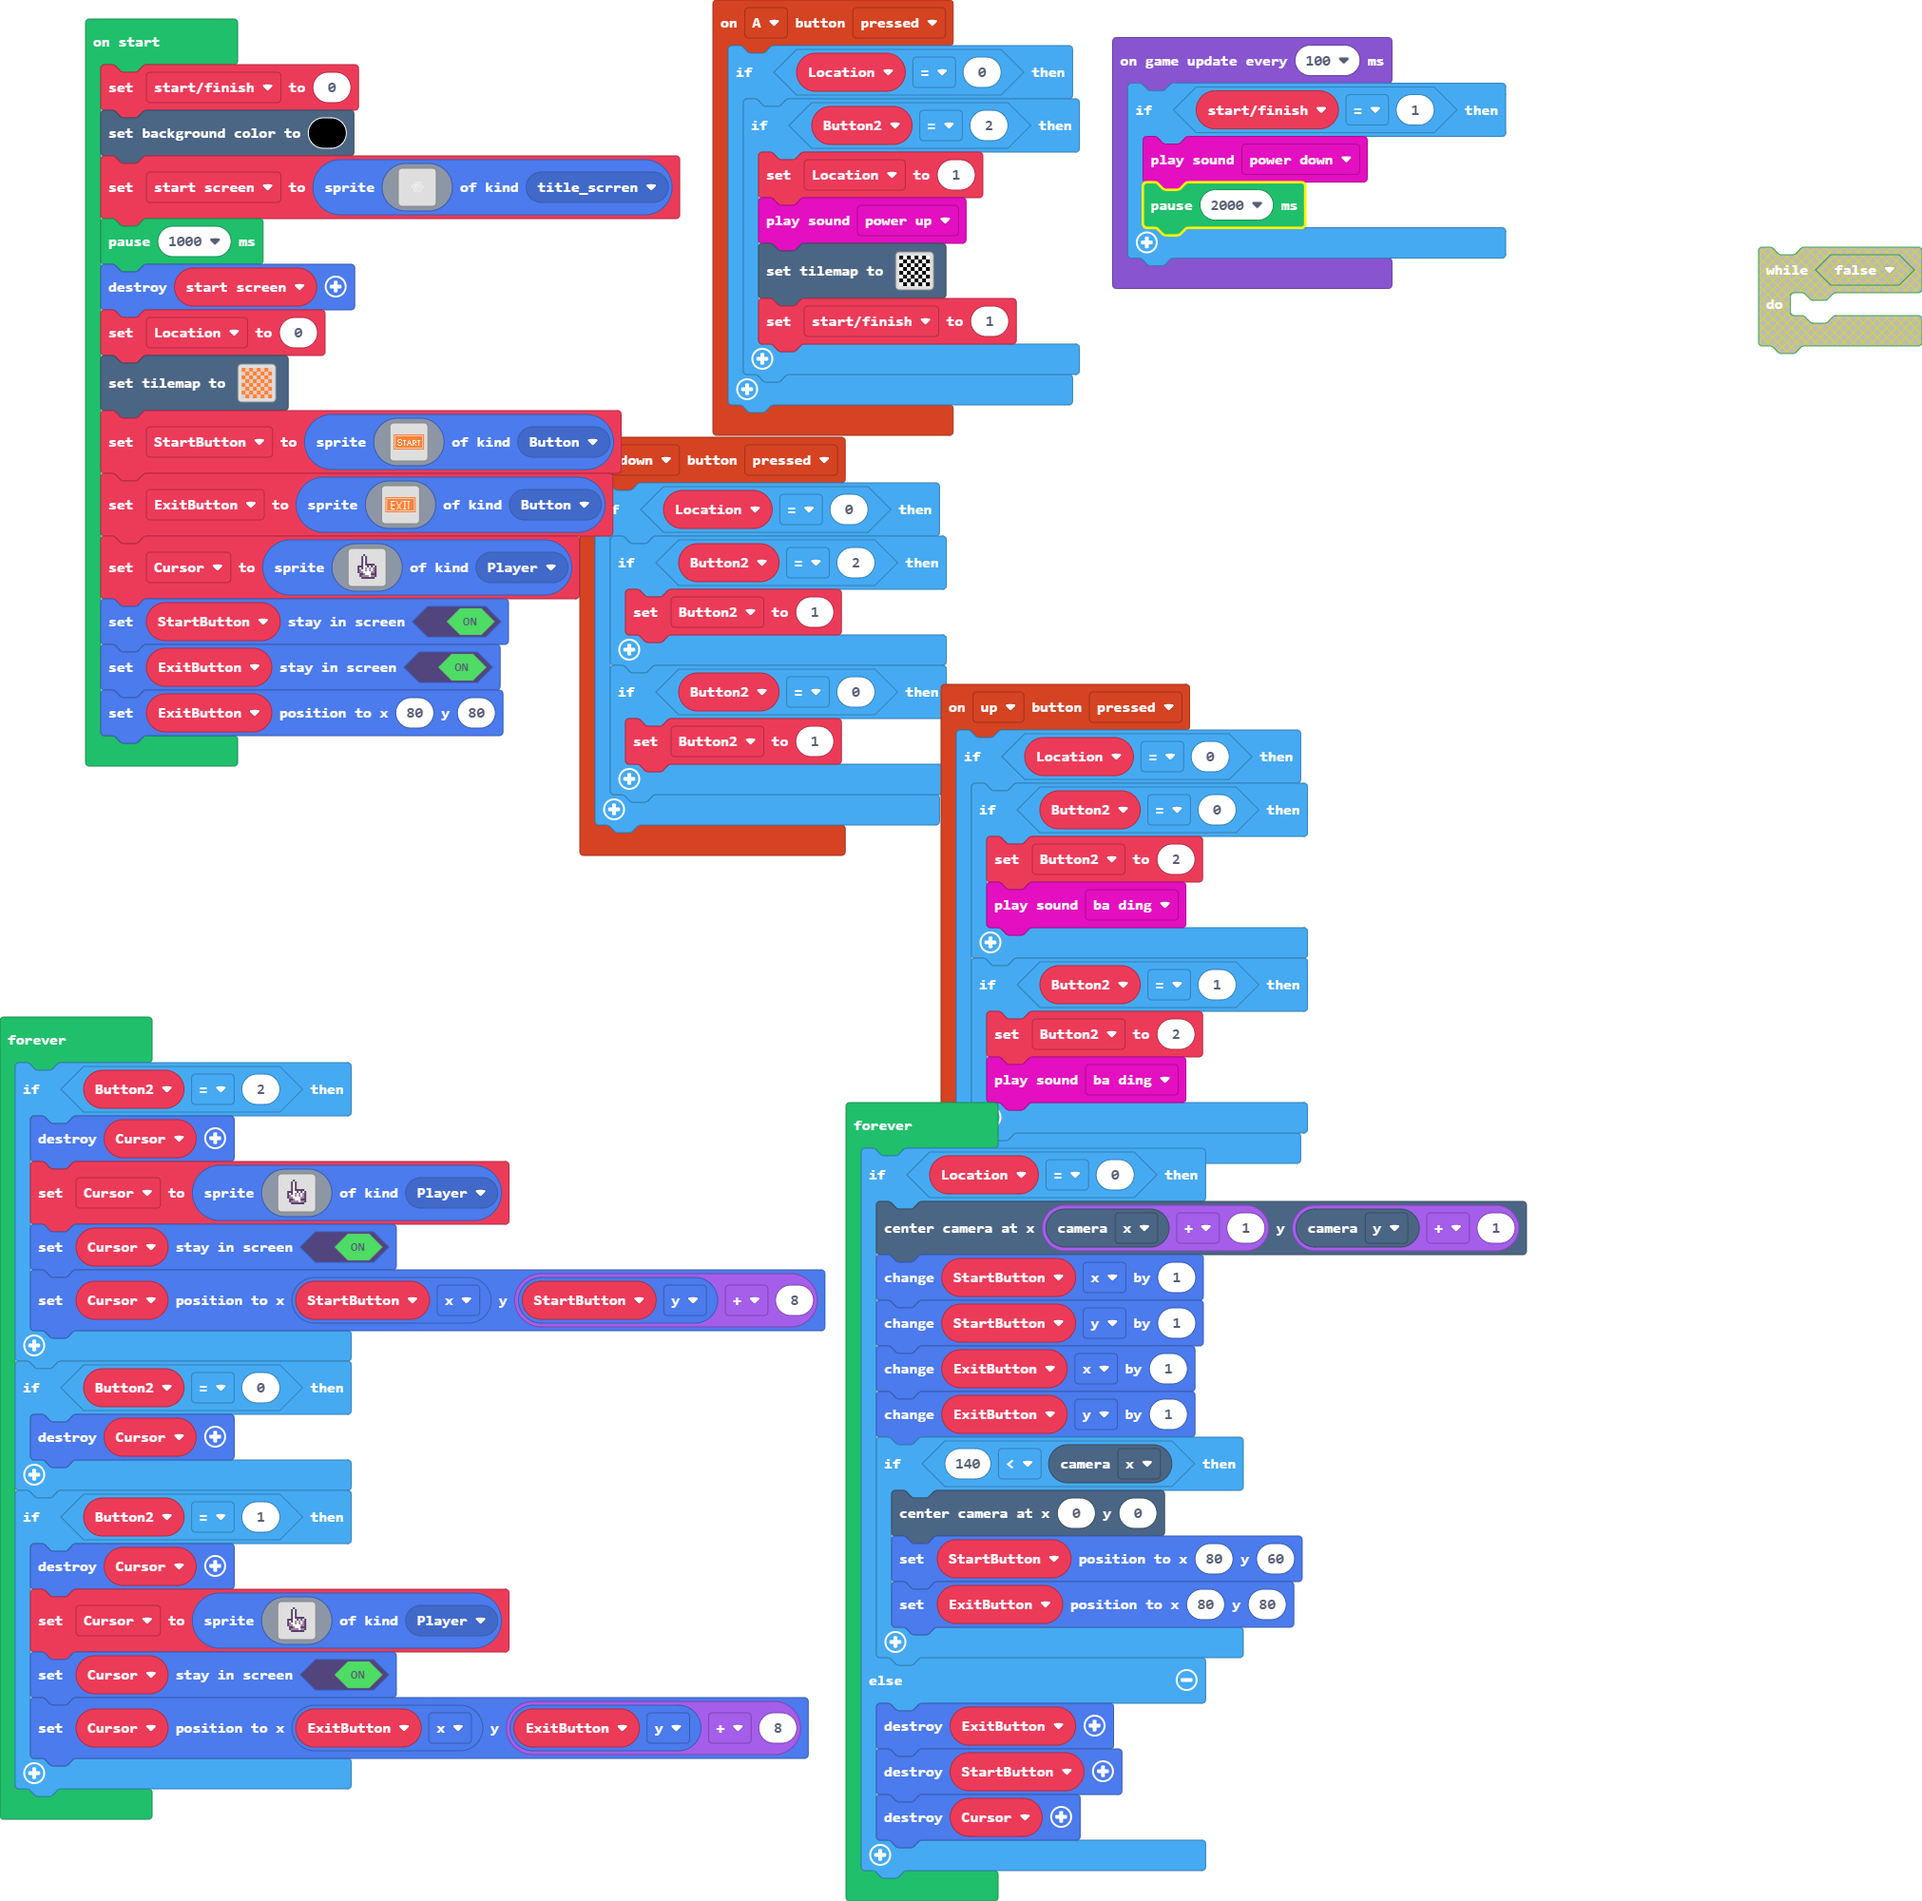
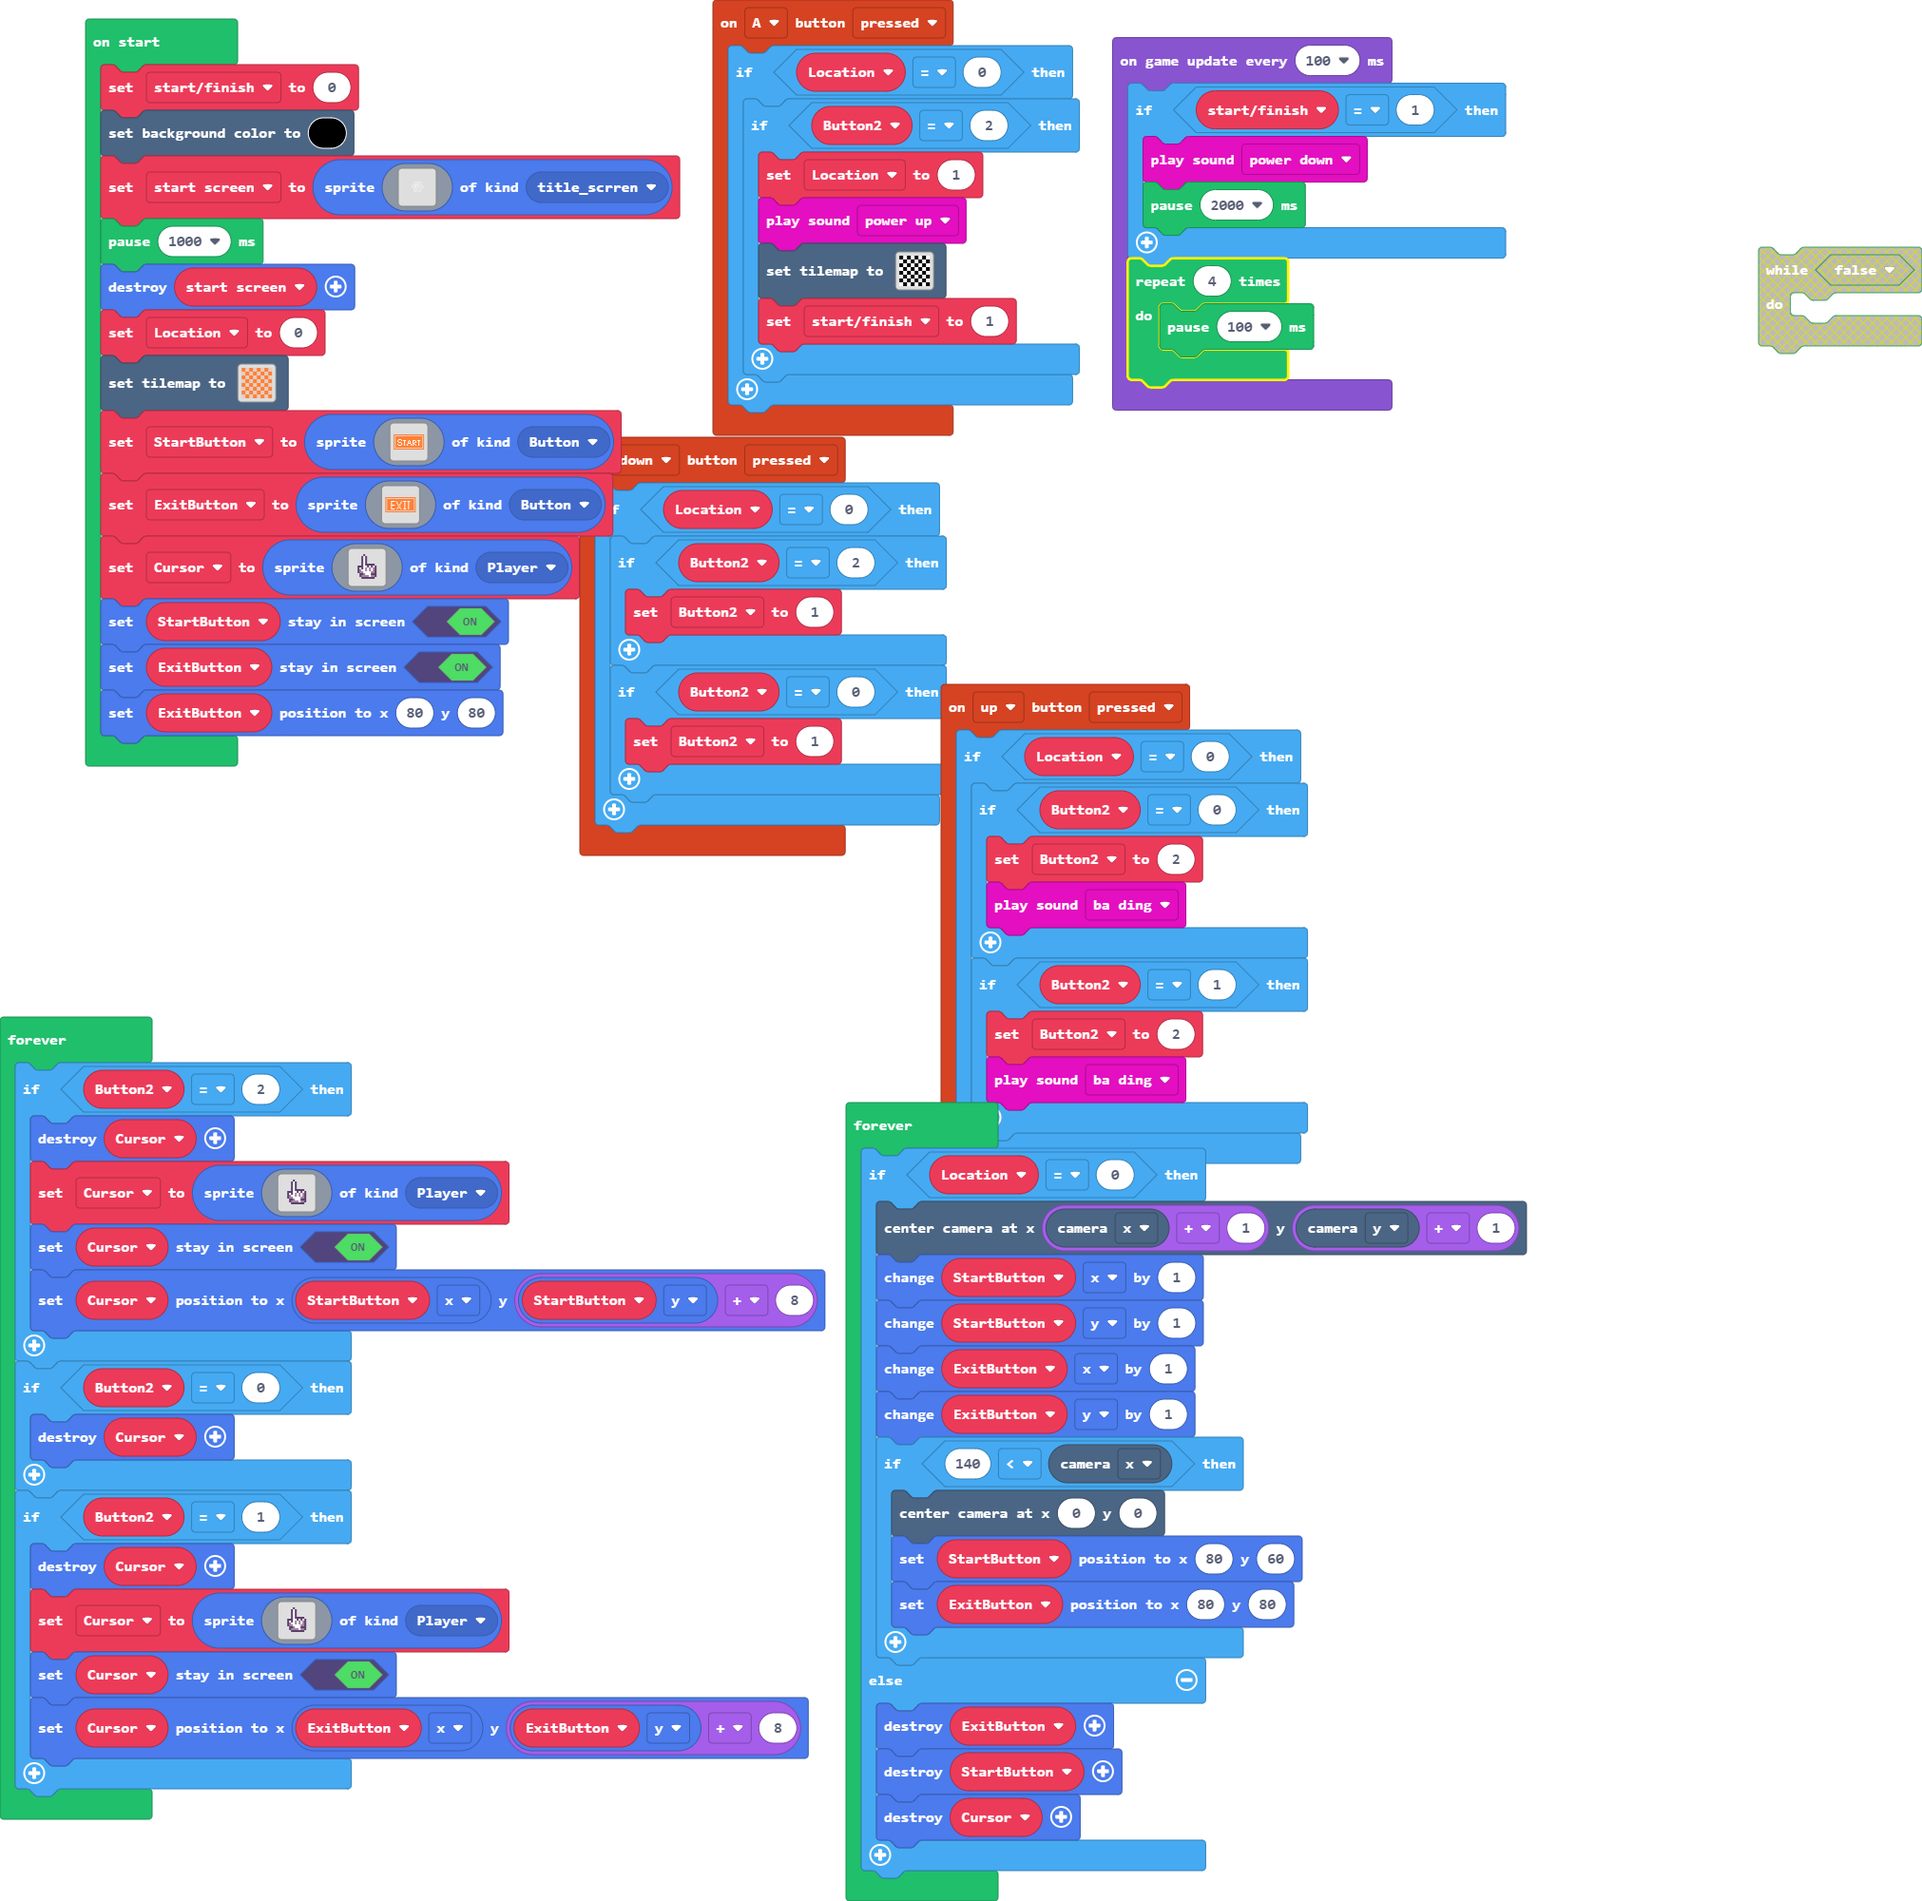
DO NOT MERGE

Changed region(s): [[0.5608, 0.093, 0.7478, 0.217]]

diff --git a/main.ts b/main.ts
@@ -94,4 +94,7 @@ game.onUpdateInterval(100, function () {
         music.powerDown.play()
         pause(2000)
     }
+    for (let index = 0; index < 4; index++) {
+        pause(100)
+    }
 })
